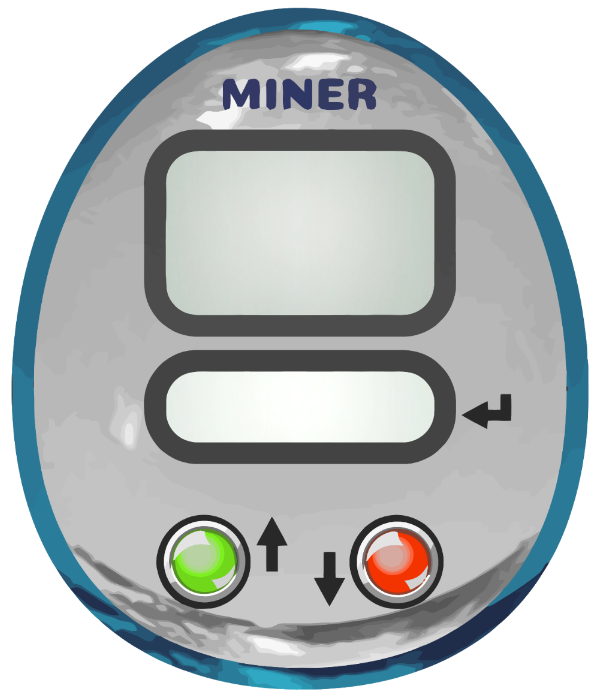
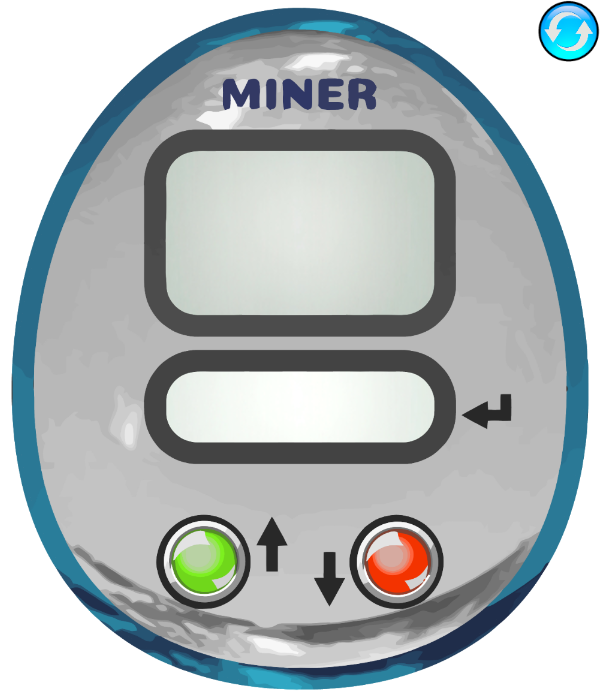
adding reload

Changed region(s): [[0.8985, 0.0, 1.0, 0.0901]]

diff --git a/src/App.vue b/src/App.vue
@@ -14,6 +14,10 @@
       <!--        <div class="install-metamask">Please install:<br><img src="./assets/img/metamask_logo.png" height="50px"><br>-->
       <!--          Metamask.<br> Then, reload...</div>-->
 
+      <div class="refreshButton" v-on:click="reloadMiner()"></div>
+
+
+
       <div class="depscr" style="display: none">DEPOSIT<br><img src="./assets/img/deposit.png" height="50px">
         <div style="text-align: left">
           <li>Enter amount</li>
@@ -104,6 +108,7 @@ export default {
     this.refreshData();
   },
   methods: {
+    reloadMiner(){window.location.reload(true);},
     refreshData() {
       this.userAddress = formatAddress(web3.eth.accounts.givenProvider.selectedAddress);
       const fromAddress = web3.eth.accounts.givenProvider.selectedAddress;
@@ -171,6 +176,7 @@ export default {
   width: 69px;
   background: none !important;
   border: 0px !important;
+  cursor: pointer;
 }
 
 .withdrawButton {
@@ -181,6 +187,22 @@ export default {
   height: 69px;
   width: 69px;
   background: none !important;
+  cursor: pointer;
 }
+
+
+.refreshButton {
+  border: 0px !important;
+  border-radius: 100px !important;
+  height: 46px;
+  width: 46px;
+  background: none !important;
+  position: absolute;
+  margin-top: -466px;
+  margin-left: 393px;
+  cursor: pointer;
+}
+
+
 
 </style>
